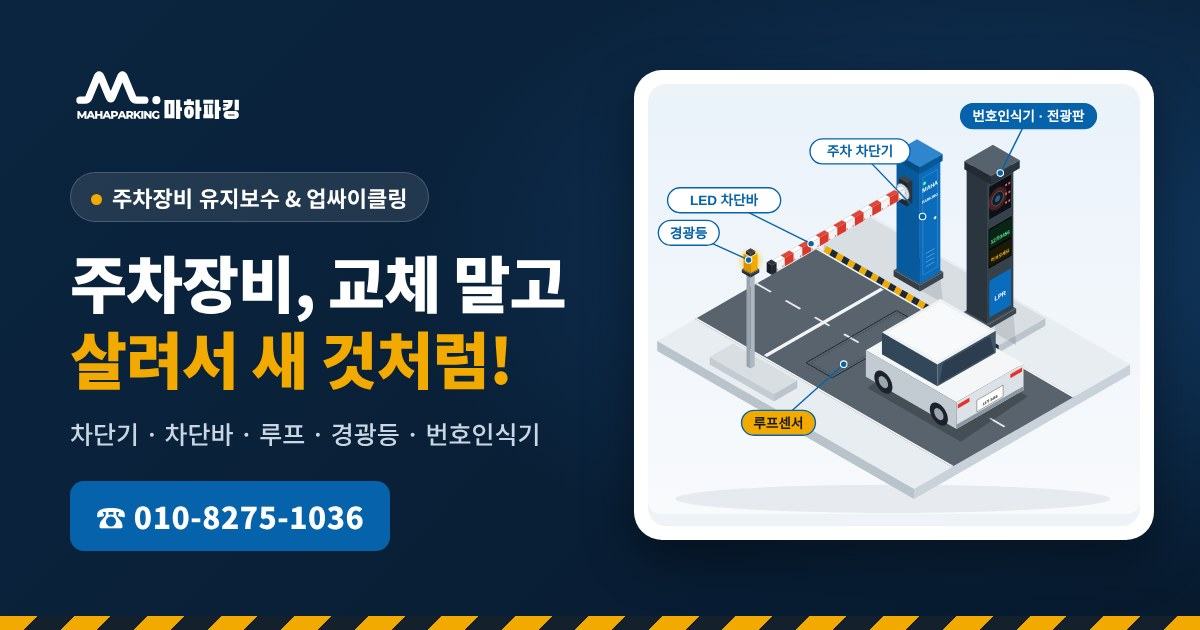
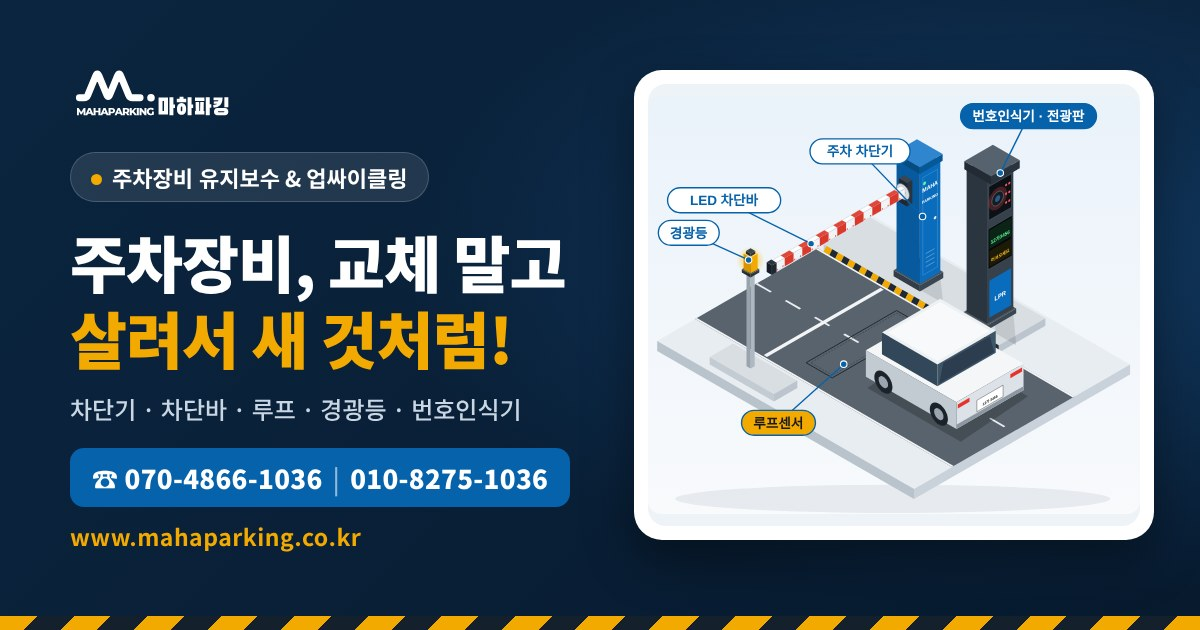
공유 이미지: 070·010 번호 함께, 아래에 www.mahaparking.co.kr
Claude-Session: https://claude.ai/code/session_013NtqBdcAYQC4jzLyt3fhRA

Changed region(s): [[0.0308, 0.2413, 0.4933, 0.8746], [0.0617, 0.1206, 0.2158, 0.2111]]

diff --git a/index.html b/index.html
@@ -10,7 +10,7 @@
 <meta property="og:url" content="https://www.mahaparking.co.kr/">
 <meta property="og:description" content="주차차단기 수리, 차단바 교체, 루프센서 시공, 경광등 수리, 번호인식(LPR) 업그레이드. 서울·경기·인천·충청 출장.">
 <meta property="og:title" content="마하파킹 | 주차장비 유지보수 &amp; 업싸이클링">
-<meta property="og:image" content="https://www.mahaparking.co.kr/assets/og-image.jpg">
+<meta property="og:image" content="https://www.mahaparking.co.kr/assets/og-image.jpg?v=2">
 <meta property="og:image:width" content="1200">
 <meta property="og:image:height" content="630">
 <meta property="og:site_name" content="마하파킹">
